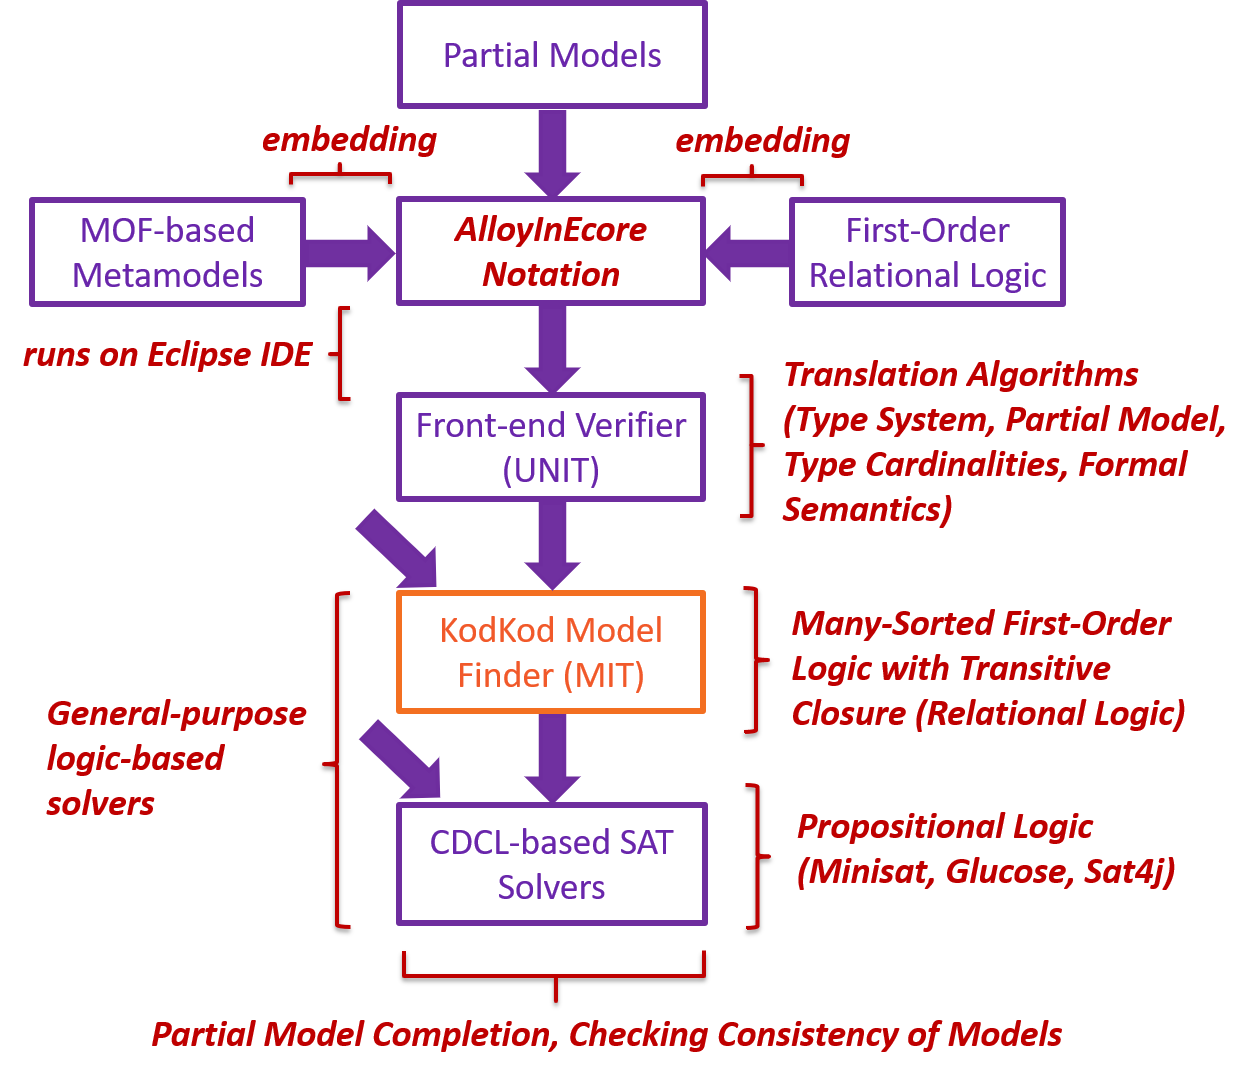
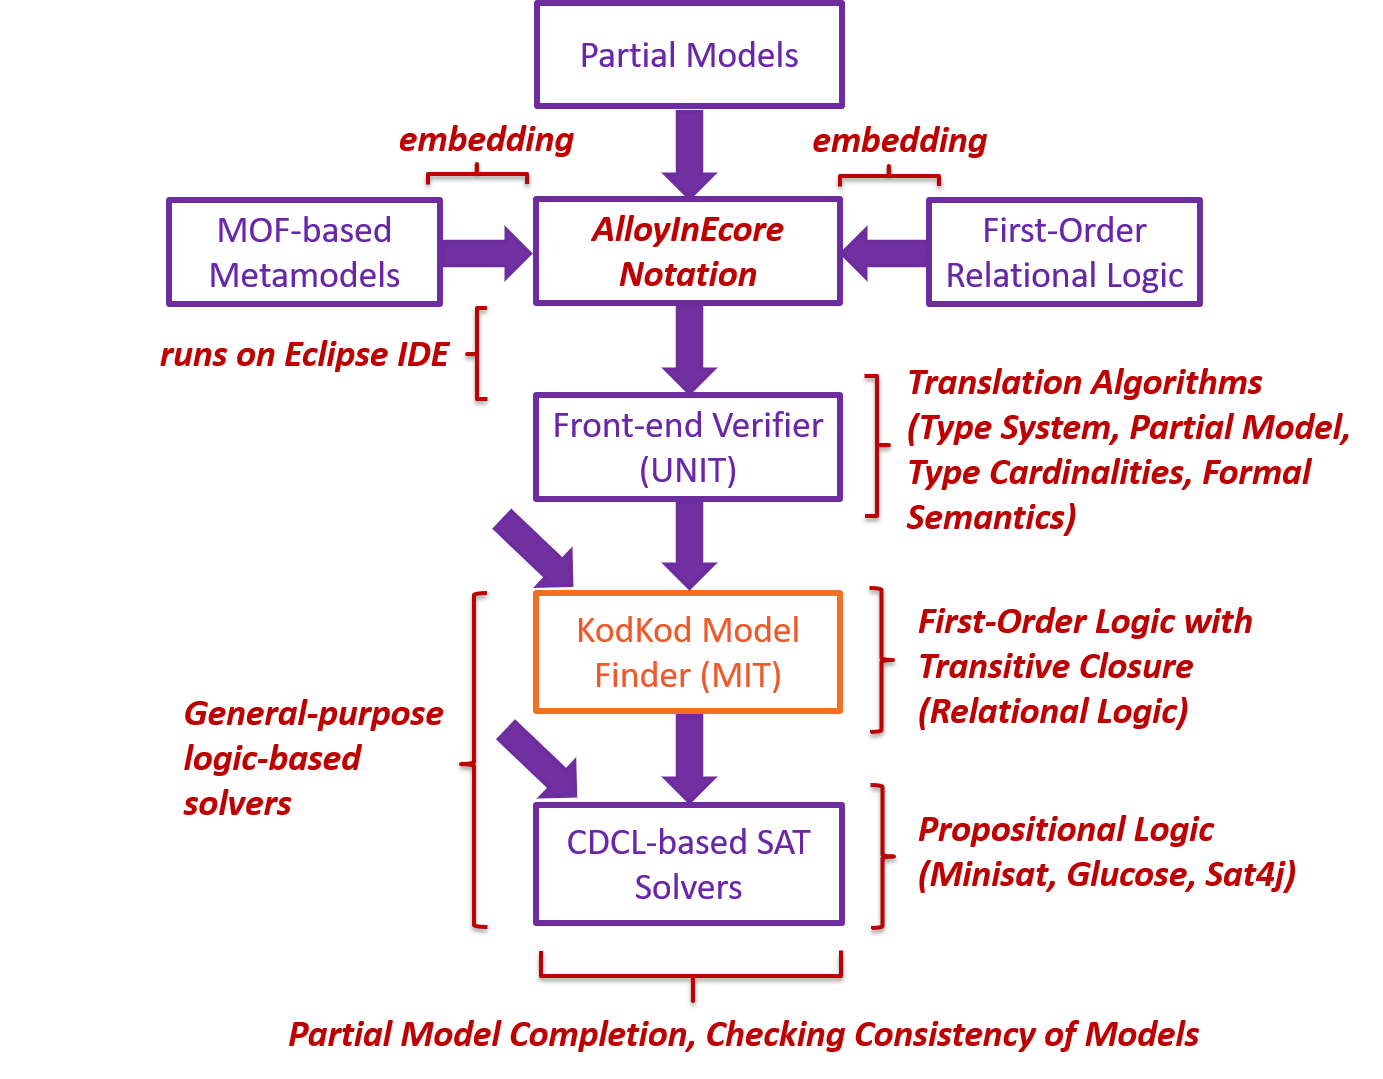
New Changes

Changed region(s): [[0.0, 0.0, 0.9913, 0.9175], [0.1239, 0.9481, 0.8674, 0.9787]]

diff --git a/index.html b/index.html
@@ -114,6 +114,17 @@ AlloyInEcore has been implemented as an Eclipse plug-in. We use <a href="https:/
     </div>
 </div>
 
+<div class="row">
+    <div class="col-sm-12 col-md-12">
+      <div class="panel panel-warning">
+        <div class="panel-heading">Tool-Chain</div>
+        <div class="panel-body">
+        <img src="Figures/AIE-KodKod.png" class="img-responsive" style="width:100%" alt="..." />
+        </div>
+      </div>
+    </div>
+</div>
+
 <!--
 <div class="row">
     <div class="col-sm-12 col-md-12">
